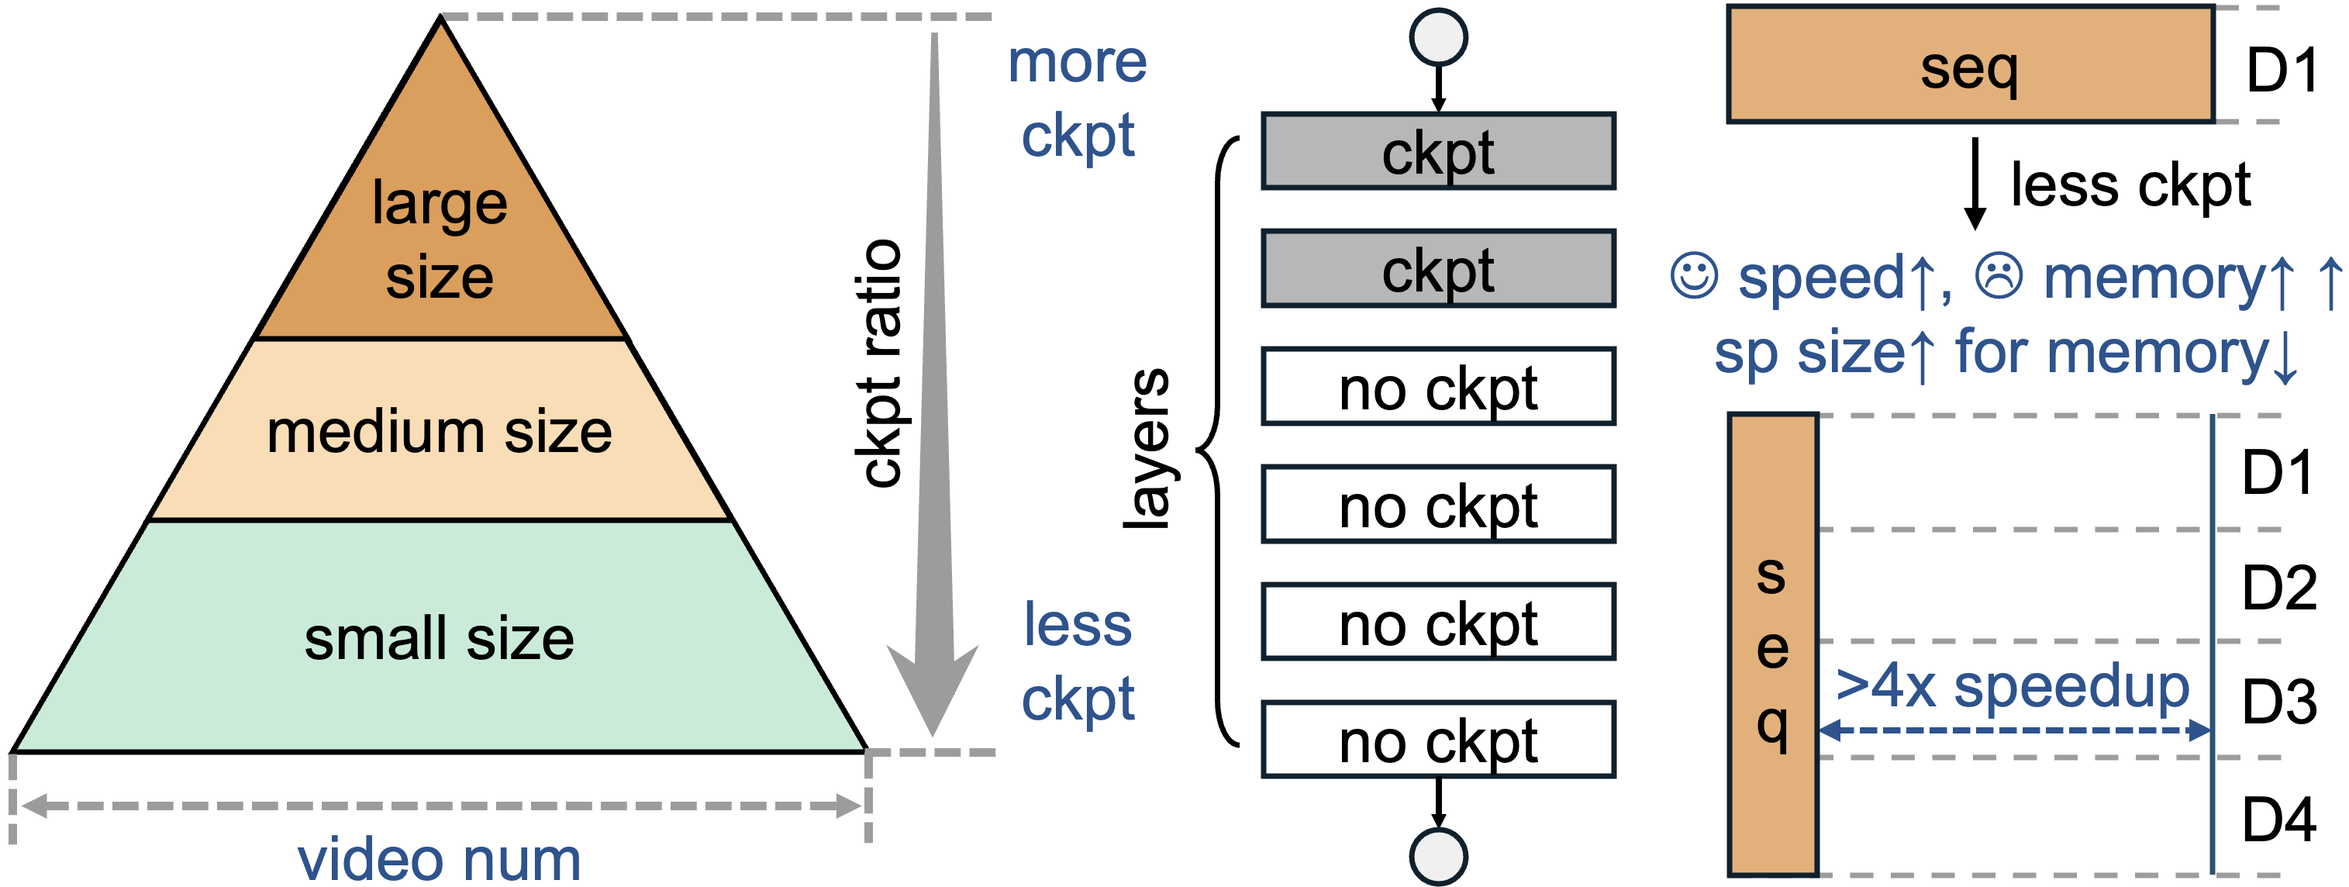
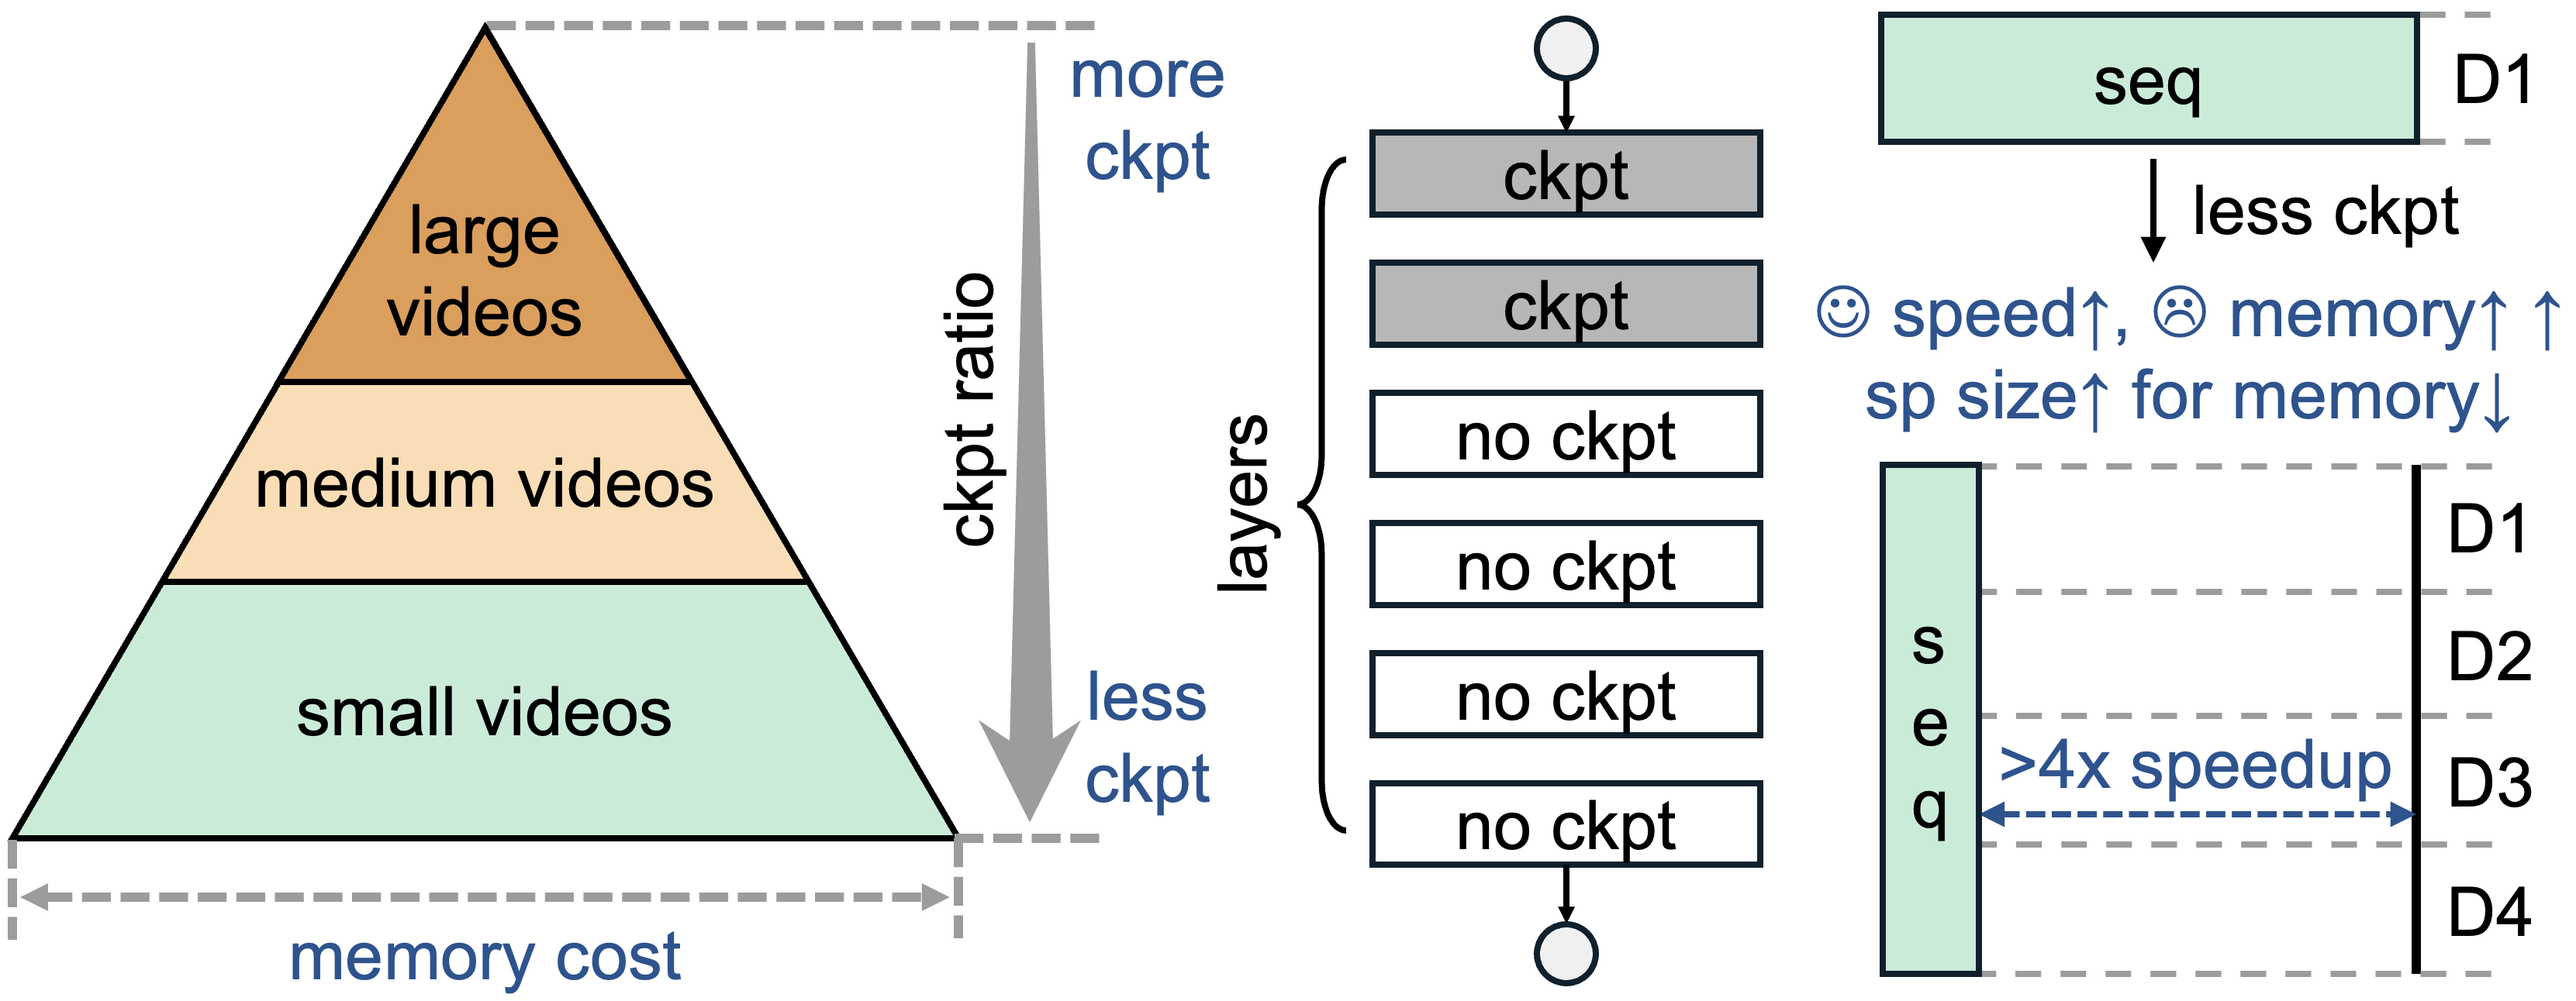
update

diff --git a/DCP/index.html b/DCP/index.html
@@ -276,10 +276,10 @@
             </div>
             <div class="content has-text-justified">
               <p>
-                In any-size videos training, video sizes follow a pyramid distribution, with short videos constituting the majority and long videos appearing less frequently, as illustrated in Figure <a href="#ckpt">3</a>. Traditional activation checkpointing are limited by longer videos, as longer videos typically require multi-gpu or even intra-node sequence parallelism if not using ckpt. 
+                As illustrated in Figure <a href="#ckpt">3</a>, in any-size videos training, video sizes and their memory consumption are highly varied, with short videos using less memory and long videos using more. Selective activation checkpointing are limited by longer videos, as longer videos typically require multi-gpu or even intra-node sequence parallelism if reducing recomputing.
               </p>
               <p>
-                Building upon our data-centric parallel approach, we propose pyramid activation checkpointing, which adaptively applies different ckpt ratios based on video sizes. This approach substantially improves throughput for the dominant shorter videos by using less ckpt, while maintaining communication overhead for longer videos.
+                Building upon our data-centric parallel approach, we propose pyramid activation checkpointing, which adaptively applies different ckpt ratios based on video sizes. This approach significantly improves throughput for the shorter videos by less recomputing, while maintaining communication overhead for longer videos, which is even more beneficial in datasets where shorter videos dominate.
               </p>
             </div>
           </div>
